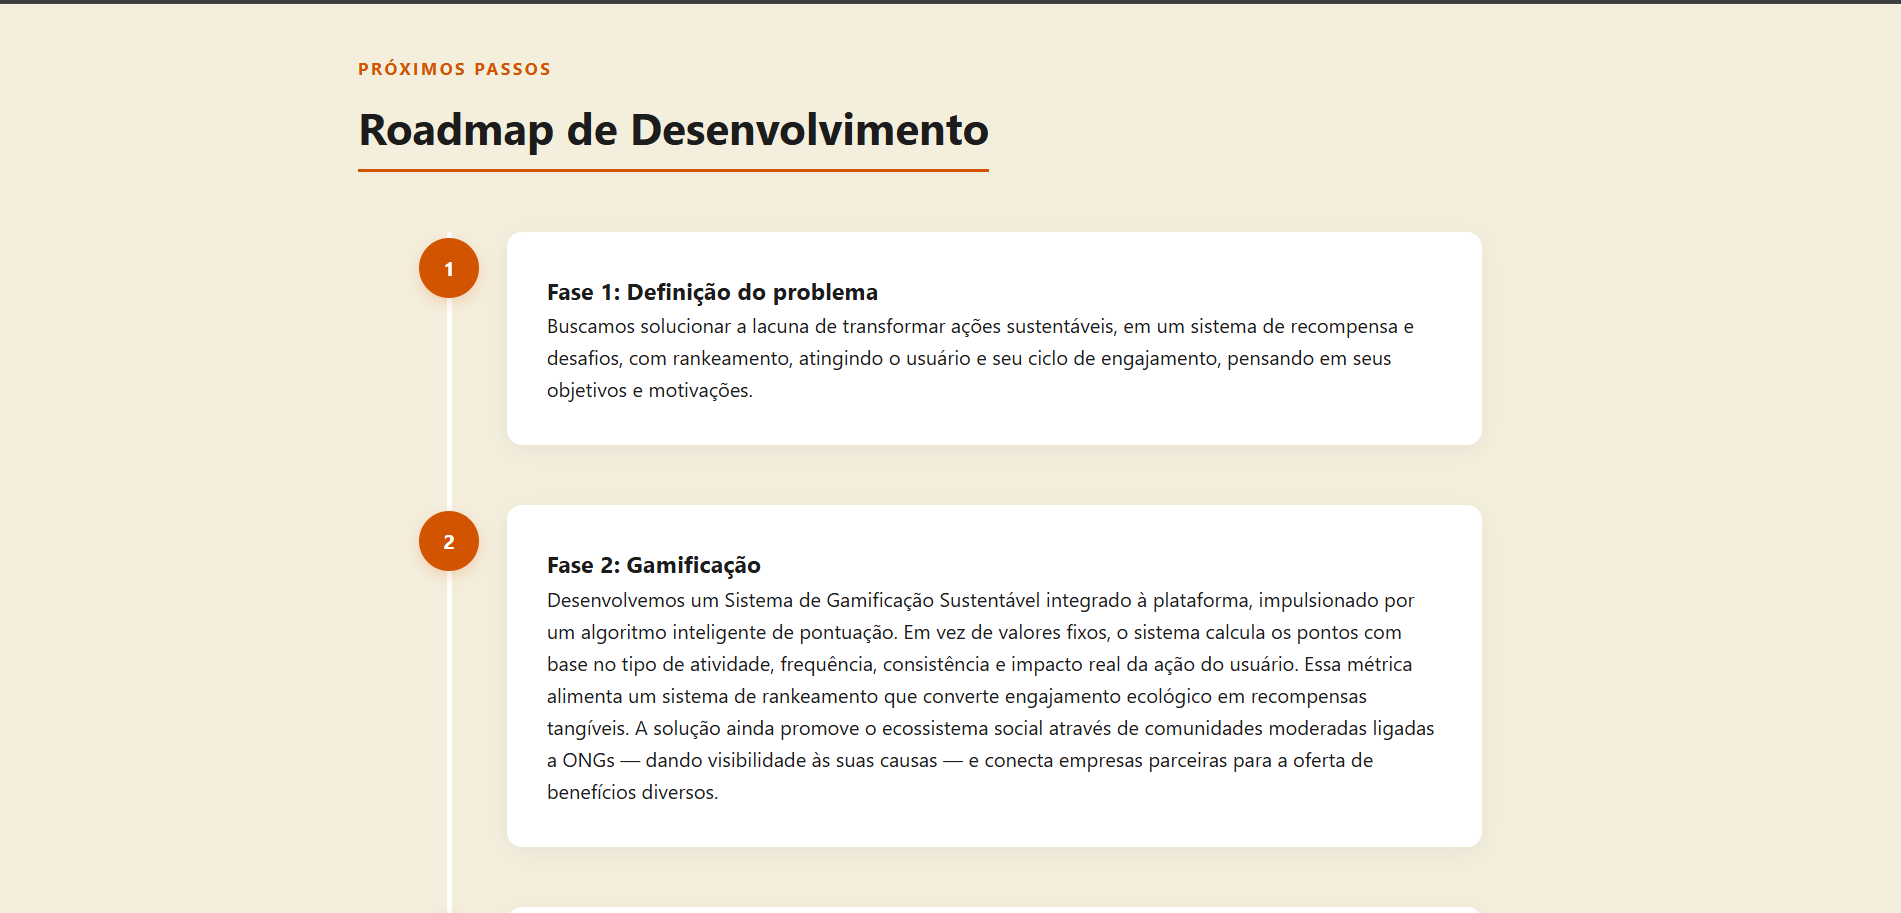
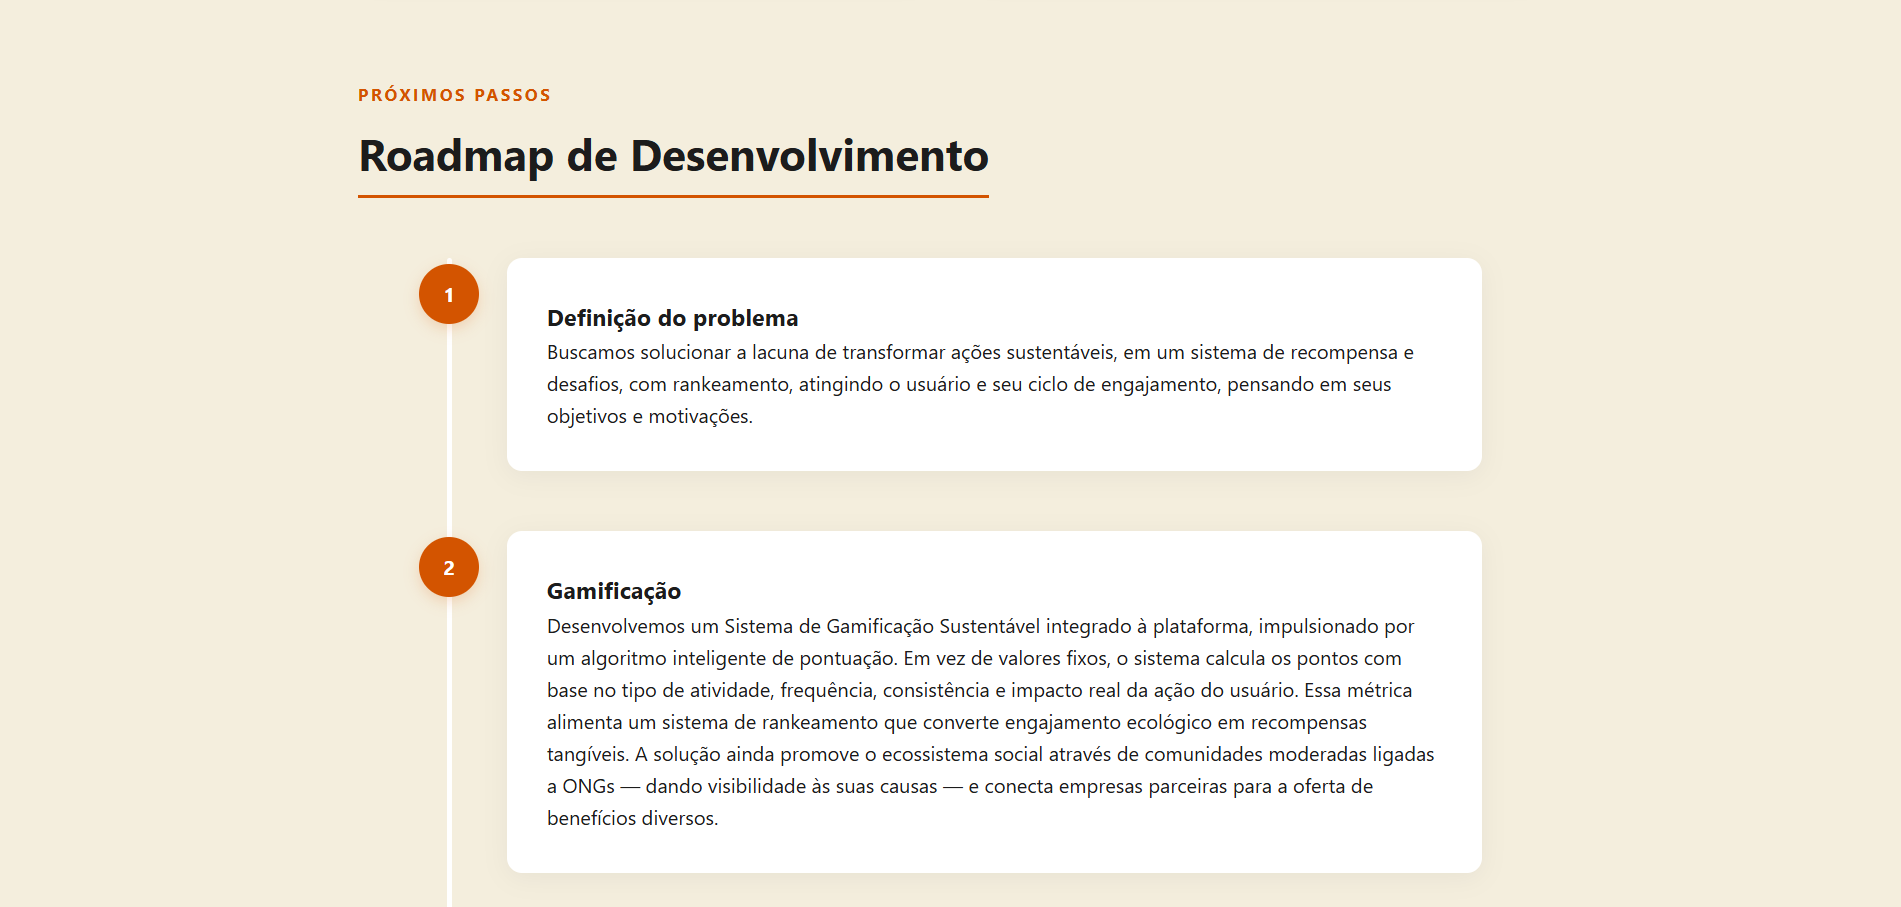
Vigésima terceira versão

diff --git a/pag/sobre.html b/pag/sobre.html
@@ -71,7 +71,7 @@
             <div class="card-mini">
                 <div class="badge-icon">04</div>
                 <h3>Comunidades Parceiras</h3>
-                <p>Criação de comunidades engajadas para uma aproximação com as causas ambientais</p>
+                <p>Criação de comunidades engajadas para uma aproximação com as causas ambientais.</p>
             </div>
         </div>
     </section>
@@ -85,21 +85,21 @@
             <article class="timeline-item">
                 <div class="timeline-badge">1</div>
                 <div class="timeline-conteudo">
-                    <h3>Fase 1: Definição do problema</h3>
+                    <h3>Definição do problema</h3>
                     <p>Buscamos solucionar a lacuna de transformar ações sustentáveis, em um sistema de recompensa e desafios, com rankeamento, atingindo o usuário e seu ciclo de engajamento, pensando em seus objetivos e motivações.</p>
                 </div>
             </article>
             <article class="timeline-item">
                 <div class="timeline-badge">2</div>
                 <div class="timeline-conteudo">
-                    <h3>Fase 2: Gamificação</h3>
+                    <h3>Gamificação</h3>
                     <p>Desenvolvemos um Sistema de Gamificação Sustentável integrado à plataforma, impulsionado por um algoritmo inteligente de pontuação. Em vez de valores fixos, o sistema calcula os pontos com base no tipo de atividade, frequência, consistência e impacto real da ação do usuário. Essa métrica alimenta um sistema de rankeamento que converte engajamento ecológico em recompensas tangíveis. A solução ainda promove o ecossistema social através de comunidades moderadas ligadas a ONGs — dando visibilidade às suas causas — e conecta empresas parceiras para a oferta de benefícios diversos.</p>
                 </div>
             </article>
             <article class="timeline-item">
                 <div class="timeline-badge">3</div>
                 <div class="timeline-conteudo">
-                    <h3>Fase 3: O Futuro</h3>
+                    <h3>Futuro</h3>
                     <p>Iremos integrar com banco de dados para salvar as pontuações dos usuários, desenvolvimento do algoritmo, conexão com APIs de empresas parceiras para o resgate de recompensas tangíveis e implementação no aplicativo mobile nativo da SoulUp.</p>
                 </div>
             </article>

diff --git a/pag/faq.html b/pag/faq.html
@@ -57,7 +57,8 @@
             <article class="faq-item">
                 <button class="faq-question">Como as pontuações funcionam?</button>
                 <div class="faq-answer">
-                    <p>Nosso sistema terá um algoritmo inteligente de pontuação que vai além de simplesmente atribuir pontos fixos por cada ação. O sistema considera múltiplos fatores antes de calcular a pontuação final do usuário. Sendo eles o tipo da ação sustentável realizada, a frequência com que o usuário realiza a ação, a consistência ao longo do tempo e o impacto sustentável gerado pela ação que o usuário realizou. Podendo ter métricas de 7, 15 e 30 dias, conforme é a atividade do usuário dentro da plataforma, pensando em seus objetivos e motivações para continuar com a atividade proposta.  O usuário irá informar quantos dias de atividade quer fazer dentro de uma das métricas, assim, mesmo atingindo a meta, terá oportunidade de ultrapassar e ganhar mais pontos, por isso separamos as pontuações em 7, 15 e 30 dias. Se um usuário escolher a métrica de 15 dias, com a meta de atividade para 7 dias, e acabar passando a meta por mais 2 dias, totalizando 9 dias de atividade, o usuário irá ganhar 7 pontos pelos 7 dias mais 4 pontos pelos 2 dias que foram ultrapassando a meta, totalizando 11 pontos. Esse tipo de oportunidade vai de encontro com o estudo apresentado anteriormente, na qual o sistema bonifica por atividades em a mais em vez de travar apenas na meta escolhida, trazendo efeito em sua motivação dentro da plataforma.</p>
+                    <p>Nosso sistema terá um algoritmo inteligente de pontuação que vai além de simplesmente atribuir pontos fixos por cada ação. O sistema considera múltiplos fatores antes de calcular a pontuação final do usuário. Sendo eles o tipo da ação sustentável realizada, a frequência com que o usuário realiza a ação, a consistência ao longo do tempo e o impacto sustentável gerado pela ação que o usuário realizou. Podendo ter métricas de 7, 15 e 30 dias, conforme é a atividade do usuário dentro da plataforma, pensando em seus objetivos e motivações para continuar com a atividade proposta.  O usuário irá informar quantos dias de atividade quer fazer dentro de uma das métricas, assim, mesmo atingindo a meta, terá oportunidade de ultrapassar e ganhar mais pontos, por isso separamos as pontuações em 7, 15 e 30 dias. Se um usuário escolher o período de 7 dias, e acabar realizando mais atividades, passando a meta por mais 2 dias, totalizando 9 dias de atividade, o usuário irá ganhar 7 pontos pelos 7 dias mais 4 pontos pelos 2 dias que foram ultrapassado, totalizando 11 pontos. Com isso, trás a importância do sistema bonificar por atividades em vez de travar apenas na meta escolhida, trazendo efeito em sua motivação dentro da plataforma.
+</p>
                 </div>
             </article>
         </section>

diff --git a/README.md b/README.md
@@ -103,7 +103,7 @@ Abaixo estão as representações visuais das telas que compõem a plataforma, d
 ![Demonstração da Página Sobre](img/sobre2.png)  
 ![Demonstração da Página Sobre](img/sobre3.png)  
 ![Demonstração da Página Sobre](img/sobre4.png)     
-*Legenda: Apresentação da missão, visão, valores do grupo e a conexão conceitual entre a Sociedade 5.0 e a preservação ambiental.*
+*Legenda: Apresentação do contexto e problema, os tipos de solução e um roadmap de desenvolvimento.*
 
 ### 🚀 3. Detalhamento da Funcionalidade (`solucao.html`)
 ![Demonstração da Página de Solução](img/solucao1.png)